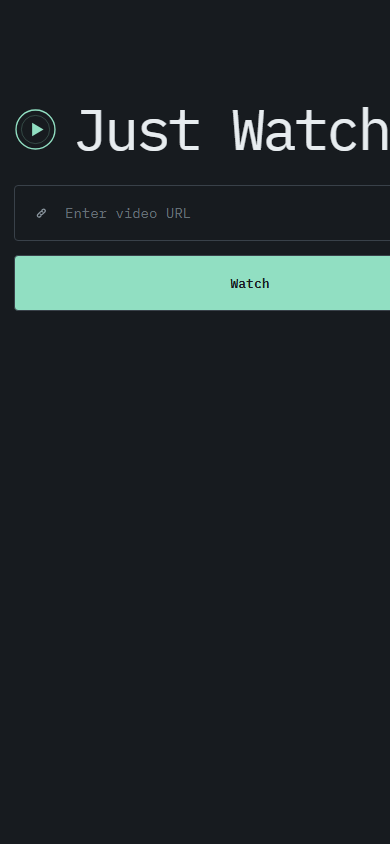
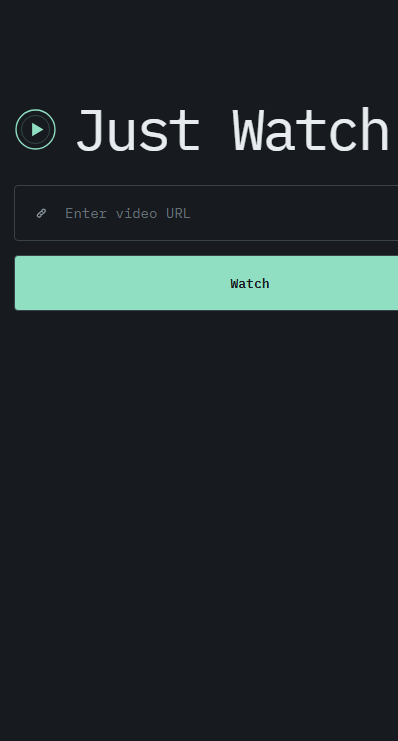
docs: update mobile preview and add MIT license

diff --git a/README.md b/README.md
@@ -24,6 +24,9 @@
   <img src="https://img.shields.io/badge/Python-3.12-3776AB?style=flat-square&logo=python&logoColor=white" alt="Python 3.12" />
   <img src="https://img.shields.io/badge/yt--dlp-Universal_Resolver-FFCC00?style=flat-square" alt="yt-dlp universal resolver" />
   <img src="https://img.shields.io/badge/Deploy-Vercel-000000?style=flat-square&logo=vercel&logoColor=white" alt="Deployed on Vercel" />
+  <a href="./LICENSE">
+    <img src="https://img.shields.io/badge/License-MIT-91DFC2?style=flat-square" alt="MIT License" />
+  </a>
 </p>
 
 ---
@@ -331,3 +334,9 @@ Playback can also fail when:
 Use Just Watch only with media that you are authorized to access and play. Respect copyright, platform terms, creator rights, and applicable law.
 
 Just Watch is an independent portfolio project and is not affiliated with any similarly named streaming guide, hosting provider, or media platform.
+
+## License
+
+This project is licensed under the [MIT License](./LICENSE).
+
+Copyright © 2026 Dimas Juli Pratama.
